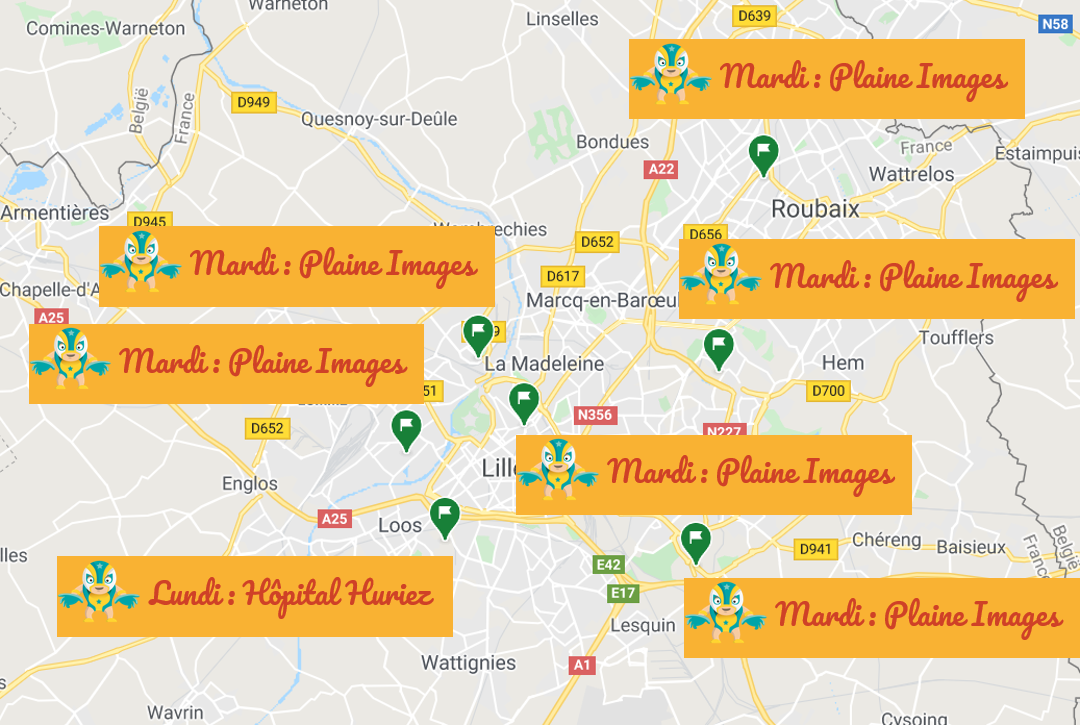
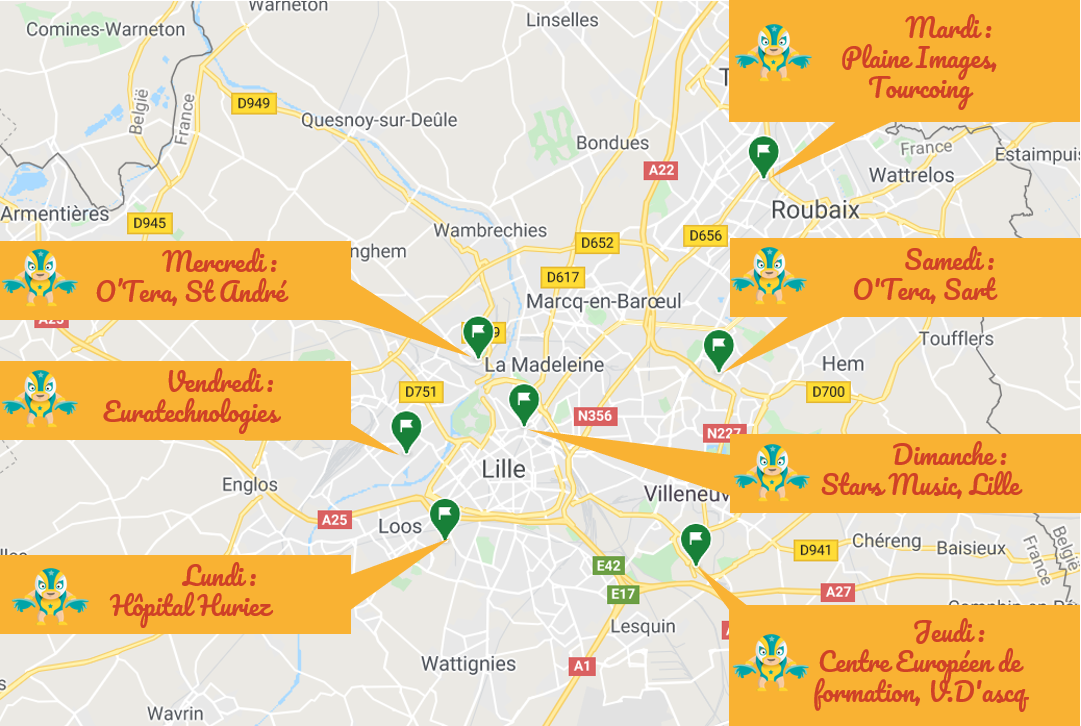
update emplacements

diff --git a/src/pages/find-us/find-us.component.jsx b/src/pages/find-us/find-us.component.jsx
@@ -1,0 +1,119 @@
+import React from 'react';
+import './find-us.styles.css'
+
+//          React Bootstrap
+import 'bootstrap/dist/css/bootstrap.min.css';
+import Container from 'react-bootstrap/Container';
+import Row from 'react-bootstrap/Row';
+import Col from 'react-bootstrap/Col';
+
+
+const FindUs = () => (
+    <div className="findus">
+        <h2 className="title-2">Où nous trouver</h2>
+        <Container>
+            {/* 1 */}
+            <Row>
+                <Col className="col-findus">
+                    <h4 className="subtitles-1">Vue d'ensemble</h4>
+                    <img src="./images/map.png" alt="" className="img-map-2" />
+                </Col>
+            </Row>
+
+
+
+            {/* 2 */}
+            <Row>
+                <Col className="col-findus">
+                    <h4 className="subtitles-1">Lundi - 11h45-14h - Hôpital Huriez</h4>
+                    <div className="google-maps-div">
+                        <iframe
+                            title="map-lundi"
+                            src="https://www.google.com/maps/embed?pb=!1m18!1m12!1m3!1d80986.13504904919!2d3.0483883627455195!3d50.63052147980388!2m3!1f0!2f0!3f0!3m2!1i1024!2i768!4f13.1!3m3!1m2!1s0x47c2d5103447dfd7%3A0xab5633f5f6257936!2sCHU%20de%20Lille!5e0!3m2!1sfr!2sfr!4v1599033188910!5m2!1sfr!2sfr"
+                            width="400" height="300" frameBorder="0" style={{ border: 0 }} allowFullScreen="" aria-hidden="false" tabIndex="0">
+                        </iframe>
+                    </div>
+                </Col>
+                <Col className="col-findus">
+                    <h4 className="subtitles-1">Mardi - 11h45-14h - Plaine Images, Tourcoing</h4>
+                    <div className="google-maps-div">
+                        <iframe
+                            title="map-mardi"
+                            src="https://www.google.com/maps/embed?pb=!1m18!1m12!1m3!1d2527.060184964895!2d3.1554034155001043!3d50.70026767951061!2m3!1f0!2f0!3f0!3m2!1i1024!2i768!4f13.1!3m3!1m2!1s0x47c328dfad101edf%3A0x2551d389c0607e14!2sPlaine%20Images!5e0!3m2!1sfr!2sfr!4v1599033726090!5m2!1sfr!2sfr"
+                            width="400" height="300" frameBorder="0" style={{ border: 0 }} allowFullScreen="" aria-hidden="false" tabIndex="0">
+                        </iframe>
+                    </div>
+                </Col>
+            </Row>
+
+
+
+
+
+            {/* 3 */}
+            <Row>
+                <Col className="col-findus">
+                    <h4 className="subtitles-1">Mercredi - 11h45-14h - O'Tera, St André</h4>
+                    <div className="google-maps-div">
+                        <iframe
+                            title="map-mercredi"
+                            src="https://www.google.com/maps/embed?pb=!1m18!1m12!1m3!1d2529.4344819276284!2d3.0455733154982667!3d50.65619307950421!2m3!1f0!2f0!3f0!3m2!1i1024!2i768!4f13.1!3m3!1m2!1s0x0%3A0x577166eca24afbc2!2sO&#39;tera%20Saint%20Andr%C3%A9!5e0!3m2!1sfr!2sfr!4v1599130987718!5m2!1sfr!2sfr" width="400" height="300" frameBorder="0" style={{ border: 0 }} allowFullScreen="" aria-hidden="false" tabIndex="0">
+                        </iframe>
+                    </div>
+                </Col>
+                <Col className="col-findus">
+                    <h4 className="subtitles-1">Jeudi - 11h45-14h - Centre Européen de formation, V.D'ascq</h4>
+                    <div className="google-maps-div">
+                        <iframe
+                            title="map-jeudi"
+                            src="https://www.google.com/maps/embed?pb=!1m18!1m12!1m3!1d2532.1655919950663!2d3.129347715496204!3d50.60546047949709!2m3!1f0!2f0!3f0!3m2!1i1024!2i768!4f13.1!3m3!1m2!1s0x47c2d640b7ba1381%3A0x1d452ab85c36f80c!2sCentre%20Europ%C3%A9en%20de%20Formation!5e0!3m2!1sfr!2sfr!4v1599131157193!5m2!1sfr!2sfr" width="400" height="300" frameBorder="0" style={{ border: 0 }} allowFullScreen="" aria-hidden="false" tabIndex="0">
+                        </iframe>
+                    </div>
+                </Col>
+            </Row>
+
+
+
+            {/* 4 */}
+            <Row>
+                <Col className="col-findus">
+                    <h4 className="subtitles-1">Vendredi - 11h45-14h - Euratechnologies</h4>
+                    <div className="google-maps-div">
+                        <iframe
+                            title="map-vendredi"
+                            src="https://www.google.com/maps/embed?pb=!1m18!1m12!1m3!1d2530.680299111027!2d3.017811315497321!3d50.633055579500926!2m3!1f0!2f0!3f0!3m2!1i1024!2i768!4f13.1!3m3!1m2!1s0x47c2d55c764ab439%3A0x2e9bfd5c48d283b!2sEuraTechnologies%20-%20Incubateur%20et%20acc%C3%A9l%C3%A9rateur%20startups%20Lille!5e0!3m2!1sfr!2sfr!4v1599131279723!5m2!1sfr!2sfr" width="400" height="300" frameBorder="0" style={{ border: 0 }} allowFullScreen="" aria-hidden="false" tabIndex="0">
+                        </iframe>
+                    </div>
+                </Col>
+                <Col className="col-findus">
+                    <h4 className="subtitles-1">Samedi - 11h45-14h - O'Tera, Sart</h4>
+                    <div className="google-maps-div">
+                        <iframe
+                            title="map-samedi"
+                            src="https://www.google.com/maps/embed?pb=!1m18!1m12!1m3!1d2529.6175399307567!2d3.138409915498139!3d50.65279377950375!2m3!1f0!2f0!3f0!3m2!1i1024!2i768!4f13.1!3m3!1m2!1s0x47c329c951de8245%3A0xf57208a82059145d!2sO&#39;tera%20du%20Sart!5e0!3m2!1sfr!2sfr!4v1599131454619!5m2!1sfr!2sfr" width="400" height="300" frameBorder="0" style={{ border: 0 }} allowFullScreen="" aria-hidden="false" tabIndex="0">
+                        </iframe>
+                    </div>
+                </Col>
+            </Row>
+
+            {/* 5 */}
+            <Row>
+                <Col className="col-findus">
+                    <h4 className="subtitles-1">Dimanche - 19h-22h - Stars Music, Lille</h4>
+                    <div className="google-maps-div">
+                        <iframe
+                            title="map-dimanche"
+                            src="https://www.google.com/maps/embed?pb=!1m18!1m12!1m3!1d2530.327371580548!2d3.0629913154975976!3d50.63961097950188!2m3!1f0!2f0!3f0!3m2!1i1024!2i768!4f13.1!3m3!1m2!1s0x47c2d58830296aab%3A0x96c9e7b78922d7e4!2sStar&#39;s%20Music%20Lille!5e0!3m2!1sfr!2sfr!4v1599131609228!5m2!1sfr!2sfr" width="400" height="300" frameBorder="0" style={{ border: 0 }} allowFullScreen="" aria-hidden="false" tabIndex="0">
+                        </iframe>
+                    </div>
+                </Col>
+                <Col className="col-findus">
+                </Col>
+            </Row>
+
+        </Container>
+    </div>
+)
+
+
+export default FindUs;

diff --git a/src/pages/find-us/find-us.styles.css b/src/pages/find-us/find-us.styles.css
@@ -1,0 +1,59 @@
+
+/*           Spécifique : Petit            */
+/*      <   Medium      -       (Pour tous les écrans inférieurs à Medium / tablets, 768px and down) The navbar toggle appears at this breakpoint */
+@media (max-width: 768px) {
+    .google-maps-div {
+        position: relative;
+        padding-bottom: 80%;
+        height: 0;
+        overflow: hidden;
+        width: 90vw;
+    }
+    
+    .google-maps iframe {
+        position: absolute;
+        left:0 !important;
+        right:0 !important;
+        width: 100% !important;
+        height: 100% !important;
+        margin-left: auto ;
+        margin-right: auto;
+        text-align: center;
+    }
+
+    .img-map-2 {
+        width: 100% !important;
+    }
+}
+
+
+/*               Tous         */
+.findus {
+    text-align: center;
+}
+
+.title-2 {
+    color: #f9b233 !important;
+    font-family: "Pacifico", helvetica, arial;
+    padding-top: 20px;
+    padding-bottom: 20px;
+
+}
+
+.subtitles-1{
+    color: rgb(0, 128, 0) ;
+    font-family: "Pacifico", helvetica, arial;
+
+}
+
+.img-map-2 {
+    display: block;
+    margin-left: auto;
+    margin-right: auto;
+    width: 60%;
+}
+
+.col-findus{
+    margin-bottom: 40px;
+}
+

diff --git a/src/pages/homepage/homepage.component.jsx b/src/pages/homepage/homepage.component.jsx
@@ -37,7 +37,7 @@ const HomePage = () => (
 
 
         <section className='qu-est-ce-qu-on-mange'>
-            <h3>Qu'est-ce qu'on mange ?</h3>
+            <h4 className="subtitles-1">Qu'est-ce qu'on mange ?</h4>
             <div className='qu-est-ce-qu-on-mange-container'>
                 <Carousel>
                     {/* 1 */}
@@ -103,9 +103,9 @@ const HomePage = () => (
 
 
         <section className='ou-nous-trouver'>
-            <h3 className='section-title'>Où nous trouver ?</h3>
+            <h4 className="subtitles-1 ou-nous-trouver-title">Où nous trouver ?</h4>
             <div className='ou-nous-trouver-container'>
-                <img src="./images/map.png" alt="" className="img-map" />
+                <img src="./images/map.png" alt="" className="img-map-1" />
                 <span className="button-container">
                     <Link to="/find-us">
                         <Button variant="outline-warning" size="lg" className="button-1">

diff --git a/src/App.js b/src/App.js
@@ -7,15 +7,30 @@ import {
 } from "react-router-dom";
 
 import HomePage from './pages/homepage/homepage.component';
+import FindUs from './pages/find-us/find-us.component';
 
 import Header from "./components/header/header.component";
+
+import ScrollToTop from "./components/scroll-to-top/scroll-to-top.component";
+
+
+
+
+
+
+
+
+
+
+
 
 export default function App() {
   return (
     <Router>
       <Header />
+      <ScrollToTop />
       <Switch>
-        <Route path="/menu">
+        <Route path="/menu" >
           <Menu />
         </Route>
         <Route path="/about-us">
@@ -34,10 +49,6 @@ export default function App() {
 
 function About() {
   return <h2>A propos de nous</h2>;
-}
-
-function FindUs() {
-  return <h2>Nous trouver</h2>;
 }
 
 function Menu() {

diff --git a/src/components/header/header.component.jsx b/src/components/header/header.component.jsx
@@ -13,7 +13,7 @@ const Header = () => (
         <Navbar.Brand className="navbar-brand">
             <Link to="/" className="navbar-brand-image-link">
                 <img
-                    className="navbar-brand-image d-inline-block align-top nav-link"
+                    className="navbar-brand-image d-inline-block align-top"
                     alt=""
                     src="/logo-el-camion.png"
                     // width="100%"

diff --git a/src/components/scroll-to-top/scroll-to-top.component.jsx b/src/components/scroll-to-top/scroll-to-top.component.jsx
@@ -1,0 +1,12 @@
+import { useEffect } from "react";
+import { useLocation } from "react-router-dom";
+
+export default function ScrollToTop() {
+  const { pathname } = useLocation();
+
+  useEffect(() => {
+    window.scrollTo(0, 0);
+  }, [pathname]);
+
+  return null;
+}

diff --git a/src/pages/homepage/homepage.styles.css b/src/pages/homepage/homepage.styles.css
@@ -159,13 +159,13 @@ M E D I A  Q U E R I E S
     padding: 10px 0px;
 }
 
-.img-map {
+.img-map-1 {
     display: block;
     margin-left: auto;
     margin-right: auto;
     width: 100%;
 }
 
-.section-title {
+.ou-nous-trouver-title {
     color: white !important;
 }
